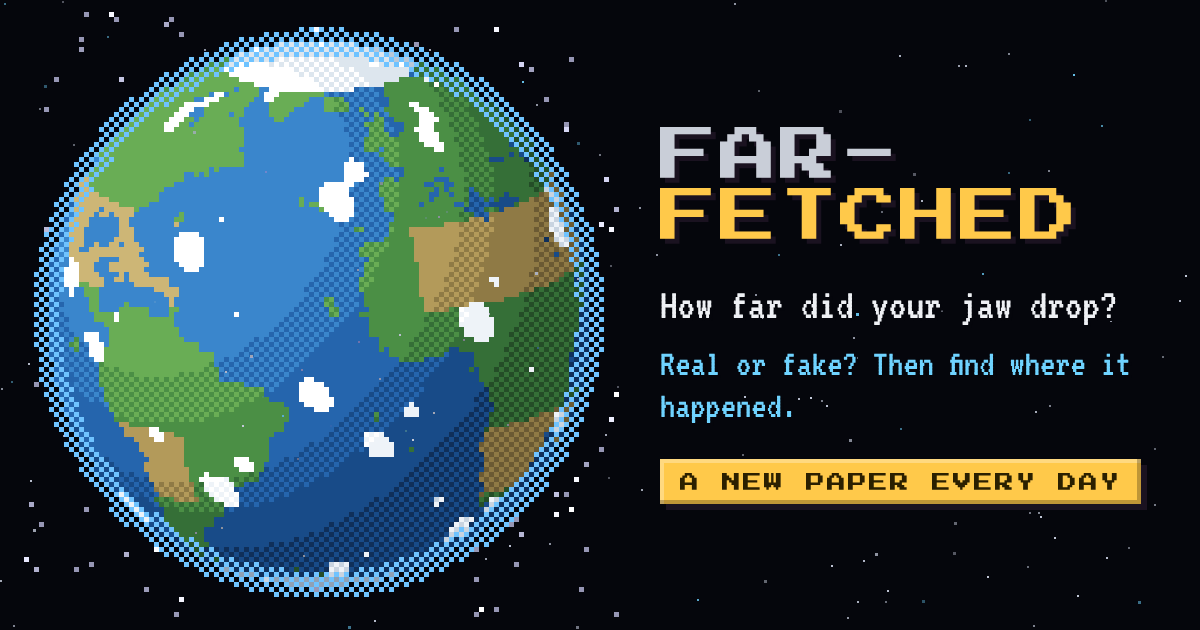
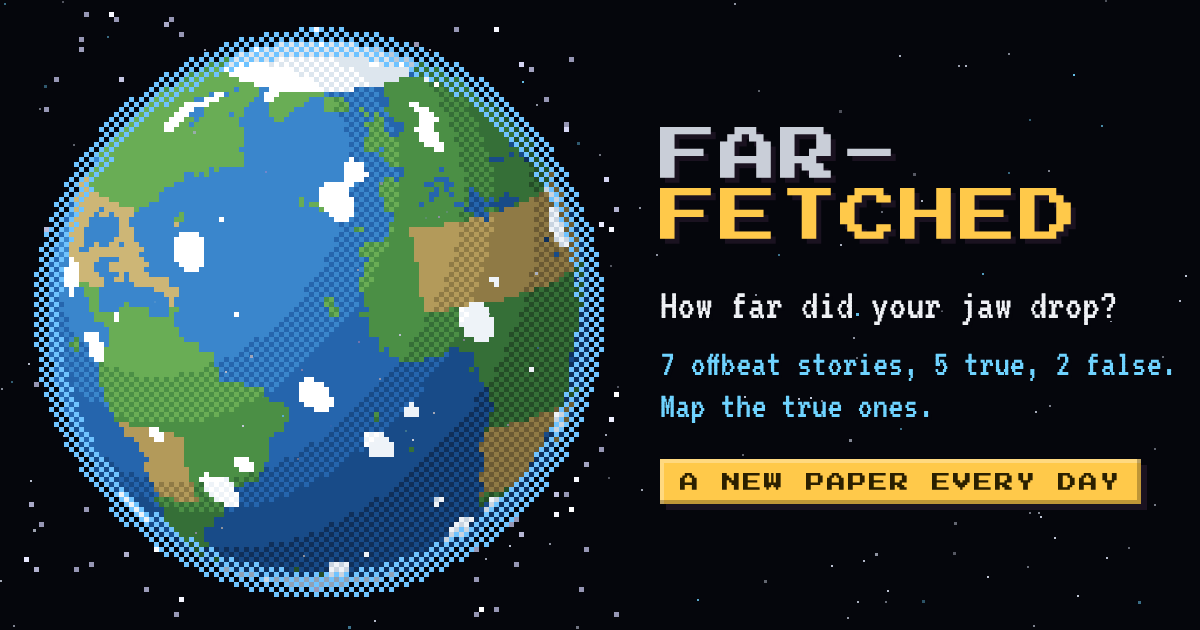
"7 offbeat stories, 5 true, 2 false. Map the true ones." (#57)
* Rename mode to Daily Dig, fuzzy Fill the Blank answers, fix icon file names

Claude-Session: https://claude.ai/code/session_01EJ5DinqC6M8WNpntkPEBSb

* Show trickiest headline, keep dig image after reload, wandering eyes

Claude-Session: https://claude.ai/code/session_01EJ5DinqC6M8WNpntkPEBSb

* Keep menu button on screen while scrolling

Claude-Session: https://claude.ai/code/session_01EJ5DinqC6M8WNpntkPEBSb

* Larger, lower city window; move picture under the bookshelf

Claude-Session: https://claude.ai/code/session_01EJ5DinqC6M8WNpntkPEBSb

* Pick a mode when starting a practice set

Claude-Session: https://claude.ai/code/session_01EJ5DinqC6M8WNpntkPEBSb

* Add the Dig Kit: streak and lifetime cosmetic unlocks, wardrobe, streak freezes

Claude-Session: https://claude.ai/code/session_01EJ5DinqC6M8WNpntkPEBSb

* Drop ties and tunnel trails from the Dig Kit

Claude-Session: https://claude.ai/code/session_01EJ5DinqC6M8WNpntkPEBSb

* Earn Dig Kit unlocks in Daily Dig only

Claude-Session: https://claude.ai/code/session_01EJ5DinqC6M8WNpntkPEBSb

* Gentler pin clock, fix map tap, softer fooled penalty, more reading time, first-game coaching

Claude-Session: https://claude.ai/code/session_01EJ5DinqC6M8WNpntkPEBSb

* Faint country names when zoomed, gentler distance curve, stronger clue checks for daily stories

Claude-Session: https://claude.ai/code/session_01EJ5DinqC6M8WNpntkPEBSb

* Pre-draw a full screen of map beyond each edge so panning while zoomed in stays filled
[…]

Changed region(s): [[0.555, 0.5429, 0.9867, 0.6032], [0.555, 0.6333, 0.7708, 0.6635]]

diff --git a/index.html b/index.html
@@ -19,16 +19,16 @@
 <meta property="og:type" content="website">
 <meta property="og:site_name" content="Far-Fetched">
 <meta property="og:title" content="Far-Fetched · How far did your jaw drop?">
-<meta property="og:description" content="7 weird headlines a day. Real or fake? If it's real, find where it happened. Every point drops his jaw deeper.">
+<meta property="og:description" content="7 offbeat stories, 5 true, 2 false. Map the true ones. Every point drops his jaw deeper.">
 <meta property="og:url" content="https://farfetchedgame.com/">
-<meta property="og:image" content="https://farfetchedgame.com/og.png?v=2">
+<meta property="og:image" content="https://farfetchedgame.com/og.png?v=3">
 <meta property="og:image:width" content="1200">
 <meta property="og:image:height" content="630">
 <meta name="twitter:card" content="summary_large_image">
 <meta name="twitter:title" content="Far-Fetched · How far did your jaw drop?">
-<meta name="twitter:description" content="7 weird headlines a day. Real or fake? If it's real, find where it happened.">
-<meta name="twitter:image" content="https://farfetchedgame.com/og.png?v=2">
-<script type="application/ld+json">{"@context":"https://schema.org","@type":"VideoGame","name":"Far-Fetched","url":"https://farfetchedgame.com/","description":"A free daily browser game. Spot which weird news headlines are real and which are made up, then pin the real ones on a map. New stories every day.","genre":["Puzzle","Trivia","Geography"],"applicationCategory":"Game","operatingSystem":"Any (web browser)","gamePlatform":"Web browser","inLanguage":"en","image":"https://farfetchedgame.com/og.png?v=2","isAccessibleForFree":true,"offers":{"@type":"Offer","price":"0","priceCurrency":"USD"}}</script>
+<meta name="twitter:description" content="7 offbeat stories, 5 true, 2 false. Map the true ones.">
+<meta name="twitter:image" content="https://farfetchedgame.com/og.png?v=3">
+<script type="application/ld+json">{"@context":"https://schema.org","@type":"VideoGame","name":"Far-Fetched","url":"https://farfetchedgame.com/","description":"A free daily browser game. Spot which weird news headlines are real and which are made up, then pin the real ones on a map. New stories every day.","genre":["Puzzle","Trivia","Geography"],"applicationCategory":"Game","operatingSystem":"Any (web browser)","gamePlatform":"Web browser","inLanguage":"en","image":"https://farfetchedgame.com/og.png?v=3","isAccessibleForFree":true,"offers":{"@type":"Offer","price":"0","priceCurrency":"USD"}}</script>
 <style>
 /* required styles */
 
@@ -4283,7 +4283,7 @@ const Intro=(function(){
   function introText(){
     if(!S || !S.rounds) return;
     const blank=S.kind==='blank', n=S.rounds.length, r=S.rounds.filter(x=>x.real).length, f=n-r;
-    $('introLine').textContent = blank ? n+' true headlines, one word missing. Fill in the blank.' : n+' stories, '+r+' true, '+f+' false. Map the true ones.';
+    $('introLine').textContent = blank ? n+' true headlines, one word missing. Fill in the blank.' : n+' offbeat stories, '+r+' true, '+f+' false. Map the true ones.';
     $('introHowText').innerHTML = (blank
       ? '<ol><li>Every headline is <b>true</b>, but one word is hidden.</li><li>Type a guess. Each guess shows how <b>hot or cold</b> it is.</li><li>You have <b>20 seconds</b> per headline. The exact word, found fast, scores the most.</li><li>Every point drops his jaw a little further.</li></ol>'
       : '<ol><li>Read the headline. The place is <b>blacked out</b>.</li><li>Call it <b>REAL</b> or <b>FAKE</b>. Quick answers score more.</li><li>If it\'s real, <b>tap the map</b> to zoom in, tap again to drop a pin where you think it happened, then <b>LOCK IN</b>. You get 20 seconds: closer and faster scores more.</li><li>Every point drops his jaw.</li></ol>')
